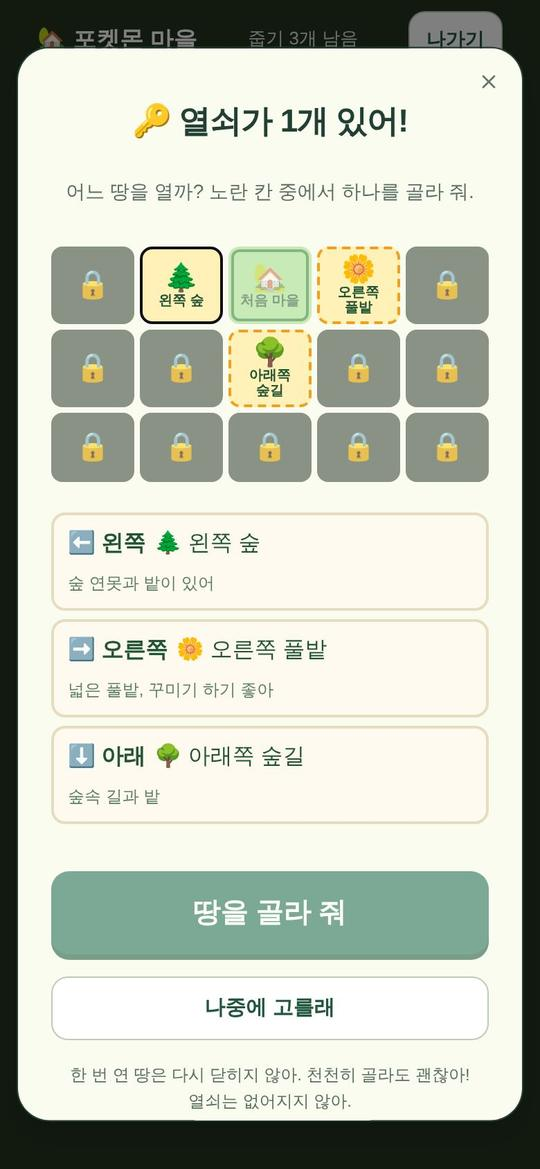
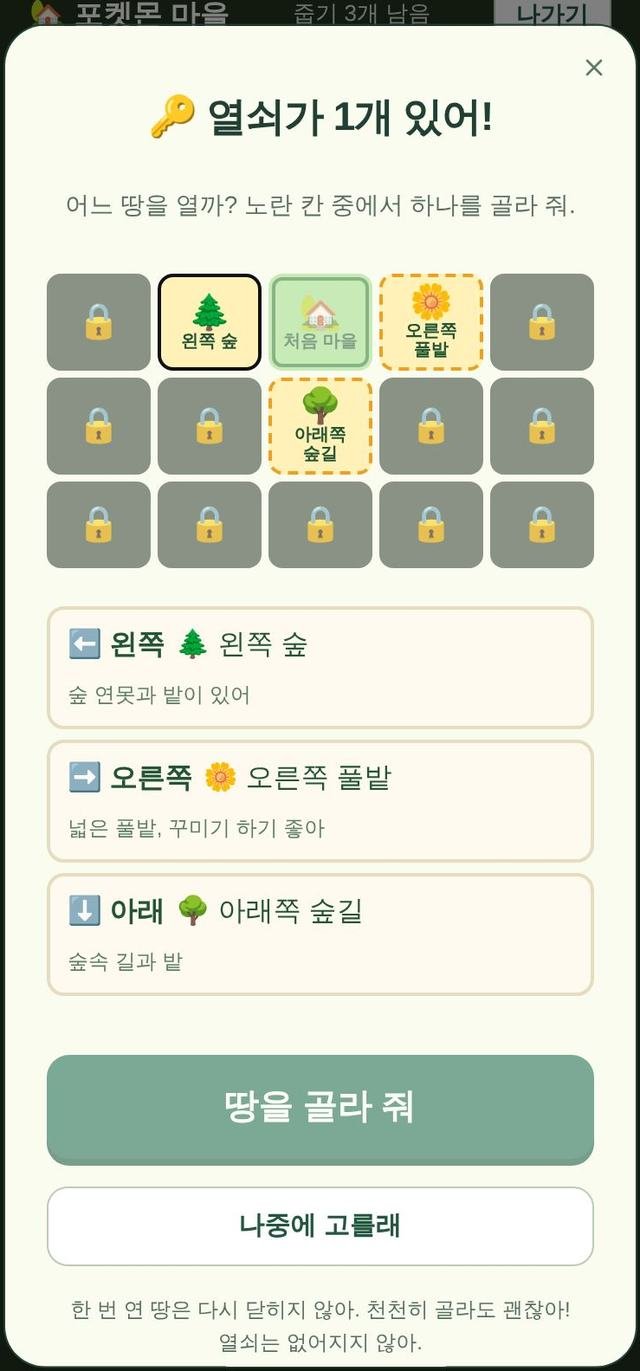
설명서: 그림을 필요한 부분만 크게, 글을 그림 위로
Claude-Session: https://claude.ai/code/session_012DpUhBuYEK6wTKz318yJQS

diff --git a/public/guide/village.html b/public/guide/village.html
@@ -25,14 +25,14 @@
   .page ul { padding-left: 4px; list-style: none; margin: 8px 0; }
   .page li { margin: 10px 0; }
   .big { font-size: 64px; text-align: center; margin: 10px 0; }
-  .shot { display: block; width: 100%; max-width: 250px; margin: 12px auto; border-radius: 18px; border: 3px solid var(--line); background: #233; }
+  .shot { display: block; width: 100%; max-width: 360px; margin: 12px auto; border-radius: 18px; border: 3px solid var(--line); background: #233; }
   .shots { display: flex; gap: 8px; justify-content: center; }
   .shots .shot { width: 48%; margin: 12px 0; }
   .crop { width: 100%; max-width: 420px; }
   .tip { background: #fff7dd; border: 2px solid #f3dc8f; border-radius: 16px; padding: 10px 14px; font-size: 19px !important; }
   .card { background: var(--card); border: 2px solid var(--line); border-radius: 16px; padding: 10px 14px; margin: 10px 0; }
   .card b { color: var(--green); }
-  .recipe { display: grid; grid-template-columns: auto 1fr; gap: 6px 10px; align-items: center; font-size: 20px; }
+  .recipe { display: grid; grid-template-columns: auto 1fr; gap: 6px 10px; align-items: center; font-size: 18px; }
   .recipe span:nth-child(odd) { font-size: 30px; }
   .nav { position: fixed; left: 0; right: 0; bottom: 0; z-index: 2; display: flex; gap: 10px; padding: 12px 16px calc(12px + env(safe-area-inset-bottom)); background: rgba(244,248,241,.96); border-top: 2px solid var(--line); }
   .nav button { flex: 1; border: 0; border-radius: 16px; padding: 16px 10px; font-size: 21px; font-weight: 900; }
@@ -65,66 +65,65 @@
 
 <section class="page" data-title="마을 열기">
   <h2>🔒 마을은 언제 열려?</h2>
-  <img class="shot crop" src="img/home-strip.jpg" alt="첫 화면 포켓몬 마을 칸">
   <p>오늘 <b>일일미션</b>을 다 풀면 열려.</p>
   <p>첫 화면의 <b>🏡 포켓몬 마을</b>을 눌러 들어가.</p>
+  <img class="shot crop" src="img/home-strip.jpg" alt="첫 화면 포켓몬 마을 칸">
 </section>
 
 <section class="page" data-title="걷기">
   <h2>🚶 걷기 · 나가기</h2>
-  <img class="shot" src="img/map.jpg" alt="마을 화면">
   <ul>
     <li>▲ ◀ ▶ ▼ 버튼으로 걸어.</li>
     <li>서준이가 걷고 파트너가 따라와.</li>
     <li>나갈 땐 위쪽 <b>나가기</b>를 눌러.</li>
   </ul>
+  <img class="shot" src="img/map.jpg" alt="마을 화면">
 </section>
 
 <section class="page" data-title="누르기">
   <h2>✨ 노랗게 반짝이면 눌러 봐</h2>
-  <img class="shot" src="img/tree.jpg" alt="반짝이는 열매나무와 우편함">
   <ul>
     <li>🍎 열매나무 → 열매 따기</li>
     <li>🪨 회색 바위 → 돌멩이 캐기</li>
     <li>📮 우편함 → 택배 받기</li>
     <li>🐾 손님 → 말 걸기</li>
   </ul>
+  <img class="shot" src="img/tree.jpg" alt="반짝이는 열매나무와 우편함">
 </section>
 
 <section class="page" data-title="줍기">
   <h2>🍃 땅에 떨어진 재료 줍기</h2>
-  <img class="shot" src="img/map.jpg" alt="땅에 떨어진 재료">
   <p>반짝이는 재료가 있는 칸으로 <b>걸어가면</b> 저절로 주워.</p>
   <p>하루에 <b>3개</b> 주울 수 있어.</p>
   <p class="tip">위쪽에 "줍기 ○개 남음"이 보여.</p>
+  <img class="shot" src="img/map.jpg" alt="땅에 떨어진 재료">
 </section>
 
 <section class="page" data-title="바위">
   <h2>🪨 바위에서 돌멩이 캐기</h2>
-  <img class="shot" src="img/rock.jpg" alt="돌멩이를 캤다는 글">
   <p>회색 바위를 눌러 봐.</p>
   <p>돌멩이가 나와! 하루에 <b>5개</b>까지야.</p>
+  <img class="shot" src="img/rock.jpg" alt="돌멩이를 캤다는 글">
 </section>
 
 <section class="page" data-title="열매나무">
   <h2>🍎 열매 따기</h2>
-  <img class="shot" src="img/tree.jpg" alt="열매를 땄다는 글">
   <p>미션을 끝낸 날, 나무마다 <b>1개</b> 열려.</p>
   <p>안 따면 다음 날 사라져. 괜찮아!</p>
+  <img class="shot" src="img/tree.jpg" alt="열매를 땄다는 글">
 </section>
 
 <section class="page" data-title="손님">
   <h2>🐾 손님에게 말 걸기</h2>
-  <img class="shot" src="img/guest.jpg" alt="손님이 말하는 모습">
   <p>"손님" 표시가 있는 포켓몬을 눌러.</p>
   <p>좋아하는 것을 알려 줘.</p>
   <p>가끔 열매를 선물로 줘! 🎁</p>
   <p class="tip">손님마다 하루에 한 번이야.</p>
+  <img class="shot" src="img/guest.jpg" alt="손님이 말하는 모습">
 </section>
 
 <section class="page" data-title="재료">
   <h2>🎒 재료는 어디서 나와?</h2>
-  <img class="shot" src="img/bag.jpg" alt="가방의 재료 칸">
   <ul>
     <li>✅ 문제를 처음에 맞히면 가끔</li>
     <li>🏁 일일미션을 끝내면 2개</li>
@@ -133,6 +132,7 @@
     <li>🎣 낚시 = 물방울 · 진흙</li>
     <li>🦋 벌레잡기 = 꽃잎 · 풀잎</li>
   </ul>
+  <img class="shot" src="img/bag.jpg" alt="가방의 재료 칸">
 </section>
 
 <section class="page" data-title="반짝돌·철">
@@ -148,18 +148,18 @@
 
 <section class="page" data-title="만들기">
   <h2>🔨 만들기</h2>
-  <img class="shot" src="img/make-habitat.jpg" alt="만들기 창">
   <p>재료로 물건을 <b>만드는</b> 곳이야.</p>
   <p>칸이 4개 있어.<br>🌱 서식지 · 🎨 꾸미기 · ⛰ 땅 · 🧰 도구</p>
   <p>만든 건 <b>🎒 가방</b>에 들어가.</p>
+  <img class="shot" src="img/make-habitat.jpg" alt="만들기 창">
 </section>
 
 <section class="page" data-title="가방">
   <h2>🎒 가방에서 놓기</h2>
-  <img class="shot" src="img/bag2.jpg" alt="가방 안 물건">
   <p>가방에서 물건을 눌러.</p>
   <p>노랗게 반짝이는 칸을 누르면 놓여!</p>
   <p class="tip">놓은 걸 다시 누르면 가방으로 돌아와.</p>
+  <img class="shot" src="img/bag2.jpg" alt="가방 안 물건">
 </section>
 
 <section class="page" data-title="서식지">
@@ -176,24 +176,23 @@
 
 <section class="page" data-title="묘목">
   <h2>🌳 열매나무 심기</h2>
-  <img class="shot" src="img/make-sapling.jpg" alt="묘목 만들기">
   <p>🔨 만들기 → 🌱 서식지 칸 맨 아래에 있어.</p>
   <p><b>열매 5 + 돌멩이 2</b>로 묘목을 만들어.</p>
   <p>열매는 아무거나 섞어도 돼.</p>
   <p class="tip">나무 자리가 꽉 차면 버튼 옆에 이유가 나와. 땅을 넓히면 자리가 늘어나!</p>
+  <img class="shot" src="img/make-sapling.jpg" alt="묘목 만들기">
 </section>
 
 <section class="page" data-title="꾸미기">
   <h2>🎨 꾸미기 · ⛰ 땅 바꾸기</h2>
-  <img class="shot" src="img/make-decor.jpg" alt="꾸미기 물건">
   <p>꽃, 울타리, 벤치로 마을을 꾸며 봐.</p>
   <p>⛰ 땅 칸에서는 연못, 흙길, 돌길을 만들어.</p>
   <p class="tip">붙여 놓으면 길과 연못이 이어져!</p>
+  <img class="shot" src="img/make-decor.jpg" alt="꾸미기 물건">
 </section>
 
 <section class="page" data-title="제작대">
   <h2>🔮 제작대에서 볼 만들기</h2>
-  <img class="shot" src="img/workbench.jpg" alt="제작대 창">
   <p>제작대에서는 <b>볼만</b> 만들어.</p>
   <div class="recipe">
     <span>🔴</span><span>몬스터볼 = 열매 10 + 돌멩이 3 + 반짝돌 1</span>
@@ -201,6 +200,7 @@
     <span>🟡</span><span>하이퍼볼 = 열매 99 + 반짝돌 1</span>
   </div>
   <p class="tip">"열매 183/10"은 열매를 다 합쳐 183개 가졌다는 뜻이야.</p>
+  <img class="shot" src="img/workbench.jpg" alt="제작대 창">
 </section>
 
 <section class="page" data-title="만든 볼">
@@ -215,57 +215,56 @@
 
 <section class="page" data-title="방명록">
   <h2>📖 방명록</h2>
-  <img class="shot" src="img/guestbook.jpg" alt="방명록">
   <p>마을에 놀러 온 포켓몬이 적혀.</p>
   <p>낚시, 벌레잡기로 만난 포켓몬도!</p>
   <p class="tip">"?"는 아직 안 온 친구야.</p>
+  <img class="shot" src="img/guestbook.jpg" alt="방명록">
 </section>
 
 <section class="page" data-title="방명록 한 장">
   <h2>🐾 포켓몬을 눌러 봐</h2>
-  <img class="shot" src="img/guestbook-entry.jpg" alt="방명록 한 장">
   <ul>
     <li>📅 처음 온 날</li>
     <li>🐾 온 횟수 (하루에 도장 하나)</li>
     <li>💗 좋아하는 열매 · 물건</li>
     <li>💬 들은 말</li>
   </ul>
+  <img class="shot" src="img/guestbook-entry.jpg" alt="방명록 한 장">
 </section>
 
 <section class="page" data-title="도구">
   <h2>🧰 낚싯대 · 잠자리채 만들기</h2>
-  <img class="shot" src="img/make-tools.jpg" alt="도구 만들기">
   <p>🔨 만들기 → 🧰 도구 칸에서 만들어.</p>
   <p>🎣 낚싯대 = 나뭇가지 3 + 풀잎 2</p>
   <p>🦋 잠자리채 = 나뭇가지 2 + 꽃잎 2</p>
   <p class="tip">도구는 <b>15번</b> 쓰면 부서져. 놓쳐도 1번 닳아. 다시 만들면 돼!</p>
+  <img class="shot" src="img/make-tools.jpg" alt="도구 만들기">
 </section>
 
 <section class="page" data-title="벌레잡기">
   <h2>🦋 벌레잡기</h2>
-  <div class="shots"><img class="shot" src="img/bug.jpg" alt="벌레잡기"><img class="shot" src="img/bug-result.jpg" alt="잡았다"></div>
   <p>날아다니는 벌레를 눌러.</p>
   <p>▼ 화살표가 <b>초록 칸</b>에 오면 "휘둘러!"</p>
+  <div class="shots"><img class="shot" src="img/bug.jpg" alt="벌레잡기"><img class="shot" src="img/bug-result.jpg" alt="잡았다"></div>
 </section>
 
 <section class="page" data-title="낚시">
   <h2>🎣 낚시</h2>
-  <div class="shots"><img class="shot" src="img/fish-spot.jpg" alt="낚시하기 버튼"><img class="shot" src="img/fish-bite.jpg" alt="퐁!"></div>
   <p>물 옆에 서면 <b>🎣 낚시하기</b> 버튼이 나와.</p>
   <p>찌가 <b>퐁!</b> 하면 바로 "당겨!"</p>
   <p class="tip">너무 빨라도, 늦어도 놓쳐.</p>
+  <div class="shots"><img class="shot" src="img/fish-spot.jpg" alt="낚시하기 버튼"><img class="shot" src="img/fish-bite.jpg" alt="퐁!"></div>
 </section>
 
 <section class="page" data-title="잡으면">
   <h2>🎁 잡으면 뭐가 나와?</h2>
-  <img class="shot" src="img/fish-result.jpg" alt="낚았다">
   <p>재료가 나와. 가끔 열매도!</p>
   <p>가끔 포켓몬을 만나. 📖 방명록에 적혀!</p>
+  <img class="shot" src="img/fish-result.jpg" alt="낚았다">
 </section>
 
 <section class="page" data-title="마을점수">
   <h2>🏠 마을점수</h2>
-  <img class="shot" src="img/level-2.jpg" alt="마을점수 받는 방법">
   <ul>
     <li>처음 보는 손님 → 🏠 3</li>
     <li>손님이 온 서식지 → 🏠 2</li>
@@ -274,15 +273,16 @@
     <li>열매 따기 → 🏠 1</li>
   </ul>
   <p class="tip">마을점수가 모이면 마을 레벨이 올라!</p>
+  <img class="shot" src="img/level-2.jpg" alt="마을점수 받는 방법">
 </section>
 
 <section class="page" data-title="열쇠">
   <h2>🔑 열쇠로 땅 넓히기</h2>
-  <img class="shot" src="img/key.jpg" alt="열쇠로 땅 고르기">
   <p>레벨이 오르면 🔑 열쇠 1개!</p>
   <p>붙어 있는 🔒 땅 중에 하나를 골라 열어.</p>
   <p>왼쪽, 오른쪽, 아래 중에서 골라.</p>
   <p class="tip">위쪽 ❓를 누르면 다시 볼 수 있어.</p>
+  <img class="shot" src="img/key.jpg" alt="열쇠로 땅 고르기">
 </section>
 
 <section class="page" data-title="먹이기">
